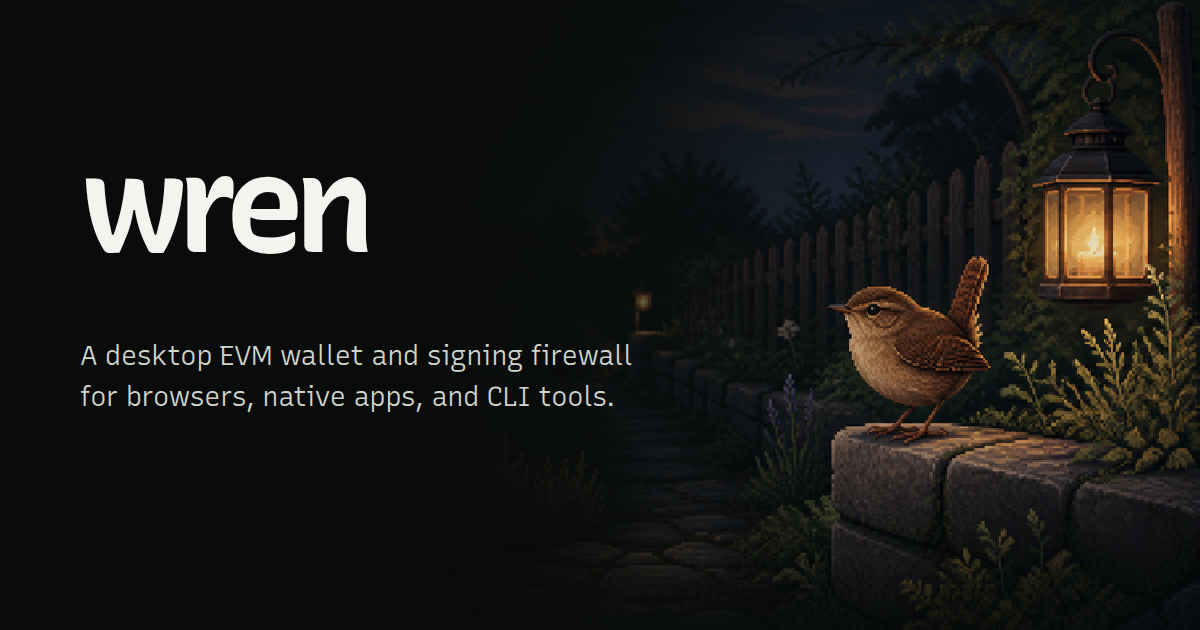
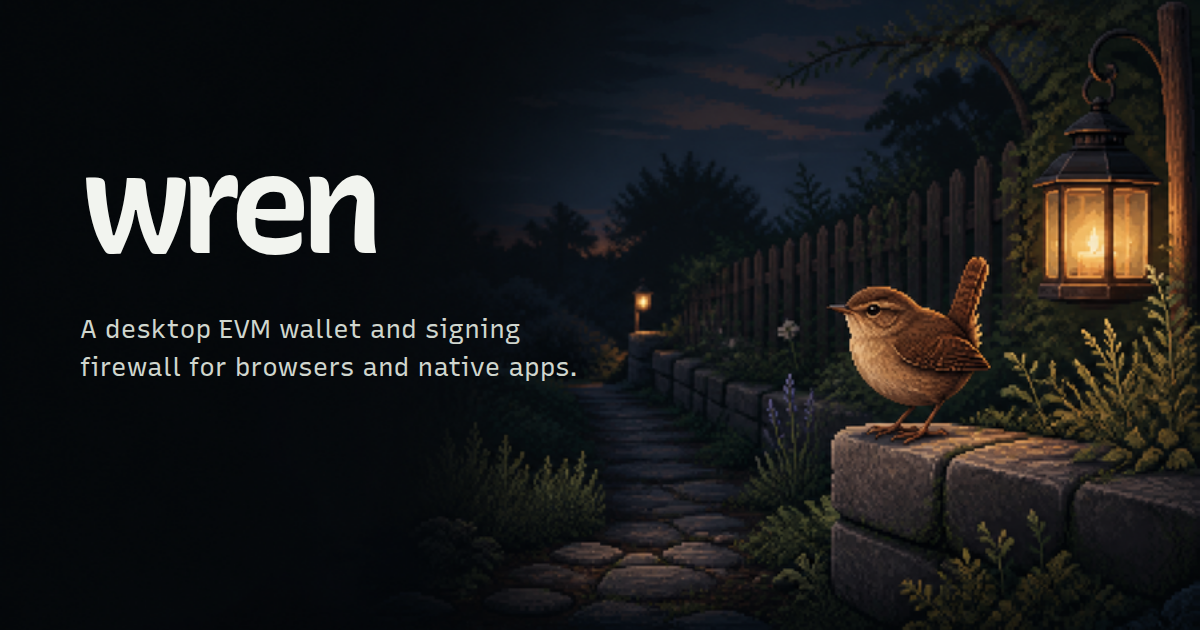
Refine public positioning and visual identity

diff --git a/src/styles/docs.css b/src/styles/docs.css
@@ -16,20 +16,79 @@
 
 :root {
   color-scheme: dark;
+  --wren-bg-canvas: #090c0a;
+  --wren-bg-subtle: #0e1210;
+  --wren-bg-elevated: #141a16;
+  --wren-bg-panel: #171d19;
+  --wren-bg-panel-strong: #1d251f;
+  --wren-surface-card: #0f1410;
+  --wren-surface-hover: #1a211c;
+  --wren-surface-active: #202a23;
+  --wren-surface-inset: #070a08;
+  --wren-surface-overlay: #0c100e;
+  --wren-border-subtle: #2b352d;
+  --wren-border-default: #3d493f;
+  --wren-border-strong: #5a695c;
+  --wren-text-primary: #f2f4ef;
+  --wren-text-secondary: #d0d6ce;
+  --wren-text-tertiary: #a9b3aa;
+  --wren-text-muted: #89958b;
+  --wren-text-disabled: #6e796f;
+  --wren-text-inverse: #12150f;
+  --wren-accent-primary: #a68a61;
+  --wren-accent-primary-hover: #b79a70;
+  --wren-accent-primary-soft: #29231b;
+  --wren-accent-secondary: #87a880;
+  --wren-accent-secondary-hover: #98ba90;
+  --wren-accent-secondary-soft: #172219;
+  --wren-success: #8fb687;
+  --wren-success-soft: #152318;
+  --wren-warning: #ddb467;
+  --wren-warning-soft: #281f12;
+  --wren-danger: #df8377;
+  --wren-danger-soft: #2a1716;
+  --wren-info: #8ab5c7;
+  --wren-info-soft: #142128;
+
   --sl-font: "Wren Recursive", sans-serif;
   --sl-font-mono: "Wren Mono", monospace;
   --sl-content-width: 48rem;
-  --sl-color-accent-low: #2c261d;
-  --sl-color-accent: #b79a70;
-  --sl-color-accent-high: #ead9c1;
-  --sl-color-white: #f2f4ef;
-  --sl-color-gray-1: #d0d6ce;
-  --sl-color-gray-2: #a9b3aa;
-  --sl-color-gray-3: #89958b;
-  --sl-color-gray-4: #5f6b61;
-  --sl-color-gray-5: #3d493f;
-  --sl-color-gray-6: #202822;
-  --sl-color-black: #090c0a;
+  --sl-color-accent-low: var(--wren-accent-primary-soft);
+  --sl-color-accent: var(--wren-accent-primary);
+  --sl-color-accent-high: var(--wren-accent-primary-hover);
+  --sl-color-white: var(--wren-text-primary);
+  --sl-color-gray-1: var(--wren-text-secondary);
+  --sl-color-gray-2: var(--wren-text-tertiary);
+  --sl-color-gray-3: var(--wren-text-muted);
+  --sl-color-gray-4: var(--wren-text-disabled);
+  --sl-color-gray-5: var(--wren-border-default);
+  --sl-color-gray-6: var(--wren-bg-panel);
+  --sl-color-black: var(--wren-bg-canvas);
+  --sl-color-text-accent: var(--wren-accent-primary-hover);
+  --sl-color-text-invert: var(--wren-text-inverse);
+  --sl-color-bg: var(--wren-bg-canvas);
+  --sl-color-bg-nav: var(--wren-bg-panel);
+  --sl-color-bg-sidebar: var(--wren-bg-panel);
+  --sl-color-bg-inline-code: var(--wren-bg-elevated);
+  --sl-color-bg-accent: var(--wren-accent-primary-hover);
+  --sl-color-hairline-light: var(--wren-border-default);
+  --sl-color-hairline: var(--wren-border-subtle);
+  --sl-color-hairline-shade: var(--wren-bg-canvas);
+  --sl-color-orange-low: var(--wren-warning-soft);
+  --sl-color-orange: var(--wren-warning);
+  --sl-color-orange-high: var(--wren-warning);
+  --sl-color-green-low: var(--wren-success-soft);
+  --sl-color-green: var(--wren-success);
+  --sl-color-green-high: var(--wren-success);
+  --sl-color-blue-low: var(--wren-info-soft);
+  --sl-color-blue: var(--wren-info);
+  --sl-color-blue-high: var(--wren-info);
+  --sl-color-purple-low: var(--wren-accent-secondary-soft);
+  --sl-color-purple: var(--wren-accent-secondary);
+  --sl-color-purple-high: var(--wren-accent-secondary-hover);
+  --sl-color-red-low: var(--wren-danger-soft);
+  --sl-color-red: var(--wren-danger);
+  --sl-color-red-high: var(--wren-danger);
 }
 
 body {

diff --git a/src/styles/landing.css b/src/styles/landing.css
@@ -200,15 +200,11 @@ h1 {
 
 .intro {
   max-width: 430px;
-  margin: clamp(38px, 5vw, 58px) 0 0;
+  margin: clamp(34px, 4vw, 46px) 0 0;
   color: var(--wren-text-tertiary);
   font-size: clamp(15px, 1.3vw, 18px);
   font-weight: 350;
   line-height: 1.55;
-}
-
-.intro-break-mobile {
-  display: none;
 }
 
 @media (max-width: 800px) {
@@ -288,10 +284,6 @@ h1 {
 
   .intro-break-desktop {
     display: none;
-  }
-
-  .intro-break-mobile {
-    display: initial;
   }
 
   .hero-scene img {

diff --git a/src/content/docs/docs/index.md b/src/content/docs/docs/index.md
@@ -6,7 +6,7 @@ sidebar:
   order: 1
 ---
 
-Wren is a desktop EVM wallet and signing firewall for browser dapps, native applications, and command-line tools. Wren desktop keeps account permissions, network routes, request review, signing, and broadcast in one place.
+Wren is a desktop EVM wallet and signing firewall for browser dapps and native applications. Wren desktop keeps account permissions, network routes, request review, signing, and broadcast in one place.
 
 Wren Companion connects browser dapps to Wren on the same computer. Companion carries browser requests. It is not a wallet or signer. Wren desktop remains responsible for permissions, review, signing, and broadcast.
 
@@ -22,7 +22,7 @@ Wren `0.1.0` and Wren Companion `0.1.0` are release candidates. They are not pub
 - [Install and start Wren](getting-started/install.md) on Linux x64. Verify the package before you run it.
 - [Complete Wren onboarding](getting-started/onboarding.md) and add a test or watch-only account.
 - [Install and pair Wren Companion](getting-started/companion.md) when you need browser dapps. Compare the six-digit code in Companion and Wren before you accept the pairing request.
-- Use Wren's local provider for a native application or command-line tool that supports it. Companion is not required.
+- Use Wren's local provider for a native application that supports it. Companion is not required.
 - [Import a Frame profile](getting-started/install.md#import-a-frame-profile) when you need a one-time private copy of an existing profile. Wren does not read Frame's live profile by default.
 
 After setup, open **Control center**. You can manage [accounts](use-wren/accounts.md), [networks](use-wren/networks.md), [tokens](use-wren/tokens.md), [Earn](use-wren/earn.md), and [settings](use-wren/settings.md).
@@ -31,13 +31,13 @@ Review the requesting app, account, network, and request details before you appr
 
 ## What makes Wren different
 
-- Wren gives browser, native, and command-line clients one desktop approval surface.
+- Wren gives browser and native clients one desktop approval surface.
 - Each connected app has its own permitted accounts and network route. Wren has no shared wallet-wide network switch.
 - Wren reviews supported transactions, messages, typed data, permits, and permissions before the signer acts. Simulation and decoded details are evidence. They do not guarantee the result.
 - Wren supports hardware, encrypted local, and watch-only accounts. A watch-only account can inspect data but cannot sign.
 - Companion carries browser requests and does not need your recovery phrase, private key, keystore password, or hardware-wallet PIN.
 
-![Browser dapps reach Wren through Companion. Native apps and CLI tools connect directly. Wren reviews each request before the signer or network acts.](../../../assets/docs/wren-request-flow.svg)
+![Browser dapps reach Wren through Companion. Native apps connect directly. Wren reviews each request before the signer or network acts.](../../../assets/docs/wren-request-flow.svg)
 
 Read [Wren features and boundaries](features.md) before you rely on a feature or signer.
 

diff --git a/src/content/docs/docs/features.md b/src/content/docs/docs/features.md
@@ -18,7 +18,7 @@ Check the [Wren releases](https://github.com/jorphex/wren/releases) and [Compani
 
 ## Desktop approval and signing
 
-Wren desktop receives requests from browser dapps, native applications, and command-line tools. It reviews and handles supported requests in one desktop interface.
+Wren desktop receives requests from browser dapps and native applications. It reviews and handles supported requests in one desktop interface.
 
 Wren can review:
 
